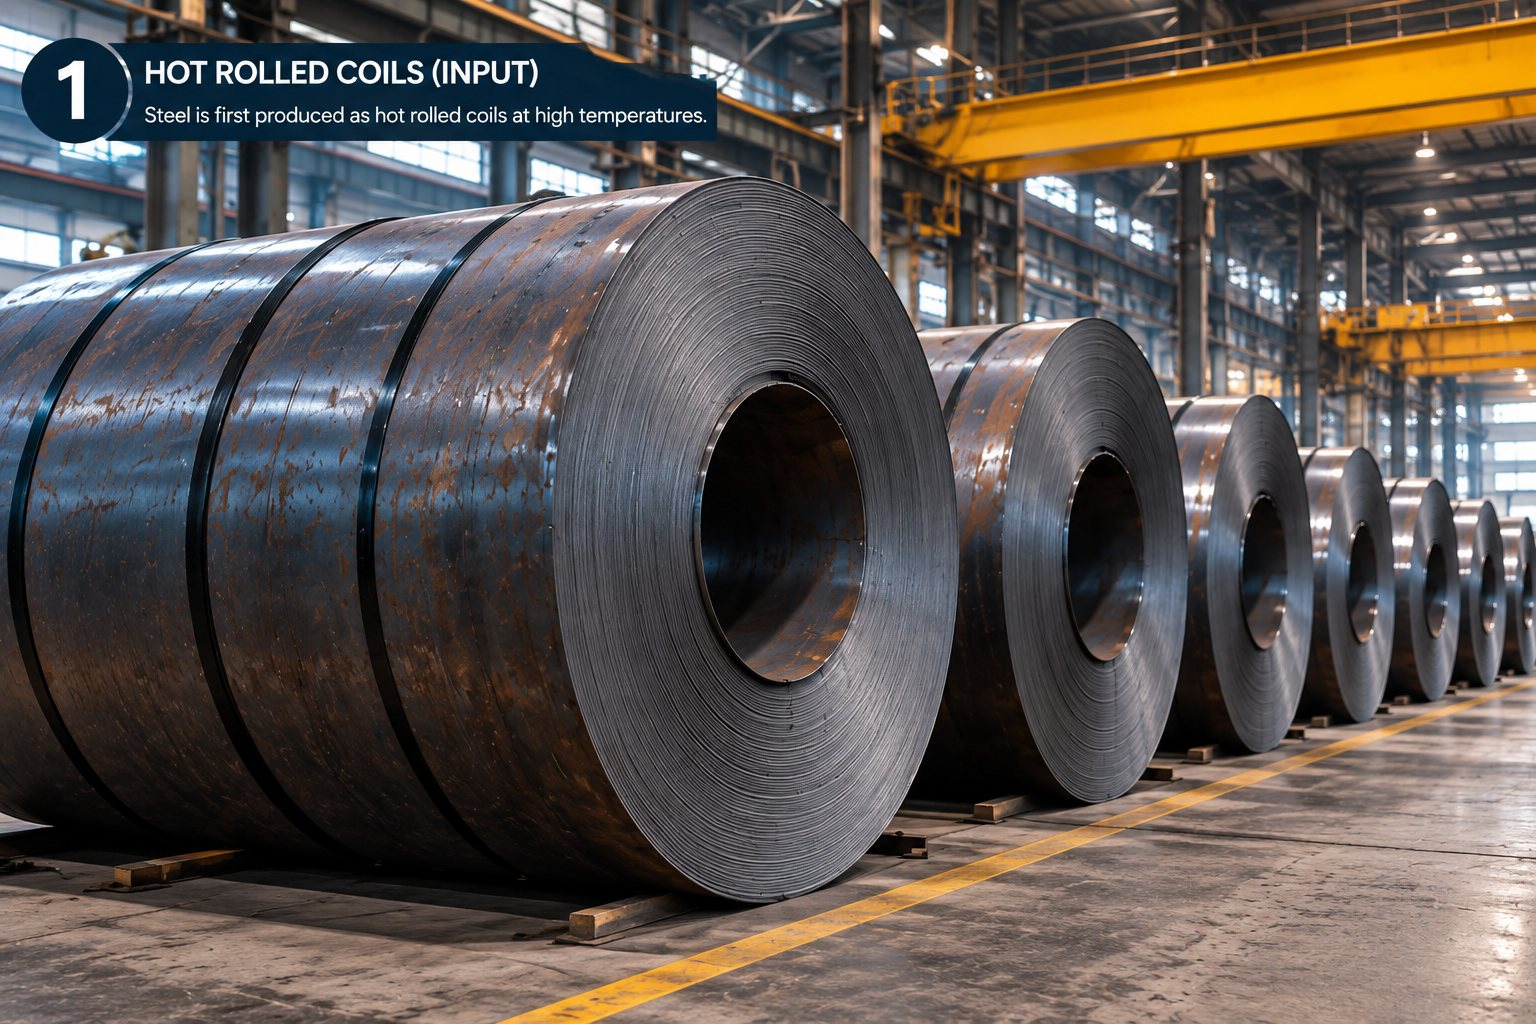
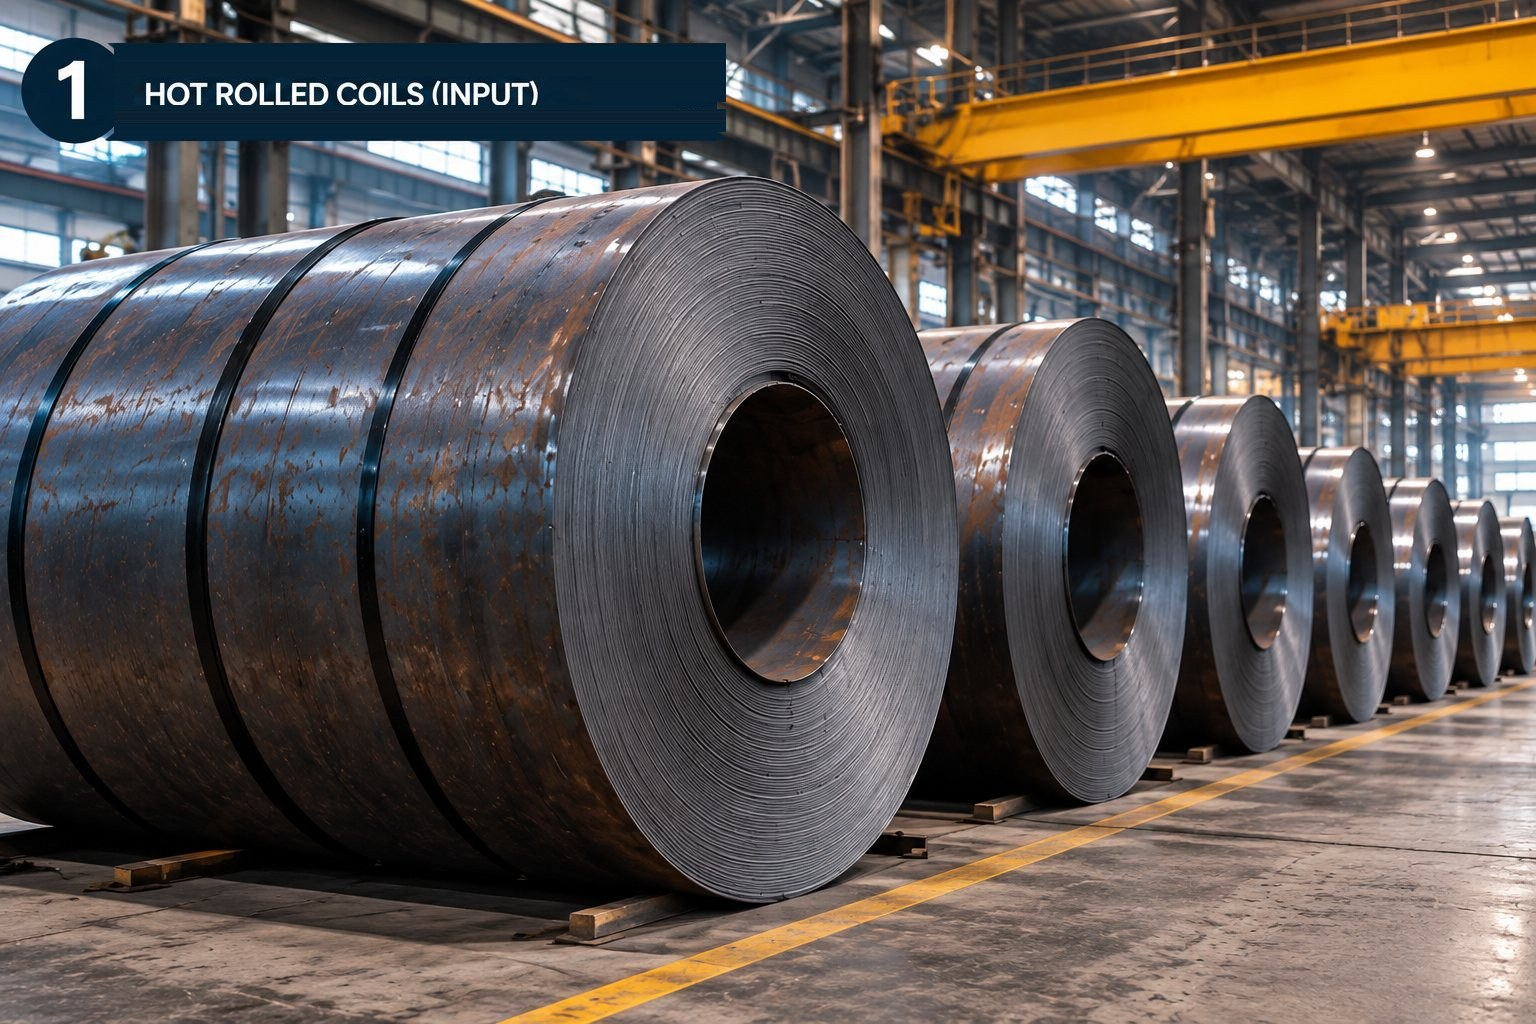
Drop the description line from the process-1 and -2 badges
The first two photographs carried a sentence under their title; the third
and fourth carried only a title, so the strip read inconsistently as it
stepped. The sub-lines are removed and each title recentred in its bar —
without recentring it sat high with a block of empty navy beneath.

Both bars are skewed by the photographs' perspective, which made this
fiddlier than it looks:

- Walking the navy edge per row stalls on the white lettering, so the
  right edge is measured on the two text-free rows just inside the bar
  and interpolated between them. The bar is a straight-sided quad, so a
  line fits it exactly.
- That interpolated edge still sits a little inside the bar on the
  sub-line rows, so each fill row extends to cover any lettering left on
  it — including the anti-aliased skirts, not just the solid white core,
  or faint ghosts survive at the ends of the line.
- Fill colour is the median of that row's own navy pixels, so the bar's
  vertical shading survives.
- The title is copied from right of the rule that separates it from the
  number, so the rule is not carried down with it.

Script kept in tools/ — the same edit will be needed if these images are
ever regenerated.

Claude-Session: https://claude.ai/code/session_01NxtLUjyUfxooAuyoJtXxjp

Changed region(s): [[0.0625, 0.0312, 0.5, 0.125]]

diff --git a/tools/striplabel.py b/tools/striplabel.py
@@ -1,0 +1,102 @@
+"""
+Drop the description sub-line burned into process-1 and -2 so all four process
+photographs carry just a number and a title, as -3 and -4 already do.
+
+Both bars are skewed by the photographs' perspective. Walking the navy edge per
+row stalls on the white lettering, so the edges are measured on the two
+text-free rows just inside the bar and interpolated between them — the bar is a
+straight-sided quad, so a line fits it exactly.
+"""
+from PIL import Image
+import numpy as np
+from geom import badge, longest_run
+
+def run(mask_row):
+    n, s = longest_run(mask_row)
+    return s, s + n - 1
+
+def clusters(nz, join=10, min_width=8):
+    if len(nz) == 0: return []
+    out, start, prev = [], nz[0], nz[0]
+    for v in nz[1:]:
+        if v - prev > join:
+            if prev - start >= min_width: out.append((start, prev))
+            start = v
+        prev = v
+    if prev - start >= min_width: out.append((start, prev))
+    return out
+
+def process(idx, preview=False):
+    path = f'/home/user/Mcil-website/public/images/process-{idx}.jpg'
+    d = badge(path)
+    im = Image.open(path).convert('RGB')
+    a = np.asarray(im).astype(int)
+    r, g, b = a[...,0], a[...,1], a[...,2]
+    navy = (b > r + 10) & (b < 115) & (r < 75) & (g < 90)
+    white = (r > 195) & (g > 195) & (b > 195)
+
+    y0, y1 = d['y0'], d['y1']
+    barH = y1 - y0 + 1
+    yA, yB = y0 + 3, y1 - 3           # text-free rows at the bar's head and foot
+    sA, eA = run(navy[yA])
+    sB, eB = run(navy[yB])
+    edge = lambda y: int(round(eA + (eB - eA) * (y - yA) / (yB - yA)))
+
+    # Number is the first white column cluster, title the second.
+    nz = np.where(white[y0:y1+1].sum(axis=0) > 3)[0]
+    nz = nz[(nz >= d['x0']) & (nz <= max(eA, eB))]
+    cl = clusters(nz)
+    if len(cl) < 2:
+        print(f"process-{idx}: could not separate number from title, skipped"); return
+    cutX = (cl[0][1] + cl[1][0]) // 2
+
+    wr = white[y0:y1+1, cutX:max(eA, eB)].sum(axis=1)
+    thr = max(4, wr.max() * 0.08)
+    bands, cur = [], None
+    for k, v in enumerate(wr):
+        if v > thr and cur is None: cur = k
+        elif v <= thr and cur is not None:
+            if k - cur >= 5: bands.append((cur + y0, k - 1 + y0))
+            cur = None
+    if cur is not None: bands.append((cur + y0, y1))
+    tTop, tBot = bands[0]
+    titleH = tBot - tTop + 1
+
+    px = np.asarray(im).copy()
+    fallback = np.median(px[y0:y1+1][navy[y0:y1+1]], axis=0).astype(px.dtype)
+    lum = a.mean(axis=2)
+    navyLum = float(np.median(lum[y0:y1+1][navy[y0:y1+1]]))
+
+    maxEdge = max(eA, eB)
+    blockRight = min(edge(y) for y in range(tTop, tBot + 1))
+    # Start the title left of its first glyph but right of the rule that
+    # separates it from the number, so that rule is not carried down with it.
+    blockLeft = max(cutX, cl[1][0] - 12)
+    block = px[tTop:tBot+1, blockLeft:blockRight].copy()
+
+    for y in range(y0 + 2, y1 - 1):
+        e = edge(y)
+        # Catch the anti-aliased skirts of the lettering too, not just the
+        # solid white core, or faint ghosts survive at the ends of the line.
+        ink = np.where(lum[y, cutX:maxEdge] > navyLum + 30)[0]
+        if len(ink):
+            e = max(e, int(ink[-1]) + cutX + 6)
+        e = min(e, maxEdge)
+        row_navy = px[y, cutX:e+1][navy[y, cutX:e+1]]
+        fill = np.median(row_navy, axis=0).astype(px.dtype) if len(row_navy) > 10 else fallback
+        px[y, cutX:e+1] = fill
+
+    newTop = y0 + (barH - titleH) // 2
+    px[newTop:newTop+titleH, blockLeft:blockRight] = block
+
+    print(f"process-{idx}: bar y{y0}..{y1} | edge {eA}->{eB} | number {cl[0]} title {cl[1][0]} "
+          f"-> cut x{cutX} | title y{tTop}..{tBot} -> y{newTop} | removed {bands[1:]}")
+
+    out = Image.fromarray(px)
+    out.save(path, "JPEG", quality=88, optimize=True, progressive=True)
+    if preview:
+        out.crop((0, 0, out.width, int(out.height * 0.26))).save(f'after_{idx}.png')
+
+if __name__ == "__main__":
+    for i in (1, 2):
+        process(i, preview=True)

diff --git a/tools/geom.py b/tools/geom.py
@@ -1,0 +1,56 @@
+from PIL import Image
+import numpy as np
+
+def close_gaps(row, max_gap=90):
+    """Bridge short non-navy gaps (the white lettering) so the bar reads as one run."""
+    out = row.copy()
+    idx = np.where(row)[0]
+    if len(idx) < 2: return out
+    for a, b in zip(idx[:-1], idx[1:]):
+        if 1 < b - a <= max_gap:
+            out[a:b] = True
+    return out
+
+def longest_run(row):
+    best = cur = start = best_start = 0
+    for i, v in enumerate(row):
+        if v:
+            if cur == 0: start = i
+            cur += 1
+            if cur > best: best, best_start = cur, start
+        else:
+            cur = 0
+    return best, best_start
+
+def badge(path):
+    a = np.asarray(Image.open(path).convert('RGB')).astype(int)
+    h, w, _ = a.shape
+    r, g, b = a[...,0], a[...,1], a[...,2]
+    navy = (b > r + 10) & (b < 115) & (r < 75) & (g < 90)
+    closed = np.array([close_gaps(navy[y]) for y in range(int(h*0.45))])
+    runs = [longest_run(closed[y]) for y in range(closed.shape[0])]
+    lens = np.array([x[0] for x in runs])
+    good = set(np.where(lens > w*0.30)[0].tolist())
+    peak = int(lens.argmax())
+    y0 = y1 = peak
+    while y0-1 in good: y0 -= 1
+    while y1+1 in good: y1 += 1
+    x0 = runs[peak][1]; x1 = x0 + runs[peak][0]
+
+    white = (r > 195) & (g > 195) & (b > 195)
+    wr = white[y0:y1+1, x0:x1].sum(axis=1)
+    thr = max(4, wr.max()*0.08)
+    bands, cur = [], None
+    for k, v in enumerate(wr):
+        if v > thr and cur is None: cur = k
+        elif v <= thr and cur is not None:
+            if k-cur >= 5: bands.append((cur+y0, k-1+y0))
+            cur = None
+    if cur is not None: bands.append((cur+y0, y1))
+    return dict(size=(w,h), y0=y0, y1=y1, x0=x0, x1=x1, bands=bands)
+
+if __name__ == "__main__":
+    for i in (1,2,3,4):
+        d = badge(f'/home/user/Mcil-website/public/images/process-{i}.jpg')
+        print(f"process-{i}: {d['size']}  bar y {d['y0']}..{d['y1']} (h={d['y1']-d['y0']+1})"
+              f"  x {d['x0']}..{d['x1']}  text {d['bands']}")
